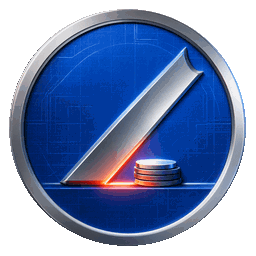
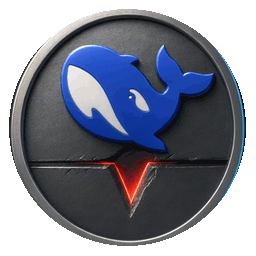
feat(achievements): use the approved DeepSeek whale for kill line
- Replace kill-line art with the owner-chosen concept: the intact DeepSeek
  whale above a V-shaped blade gouge. Archive kill-line-v2-source.png and bump
  the catalog and title references to v4.
- Keep sprinter, wishing-well and dragon-heir unchanged: the owner rejected
  the subject-shrink samples, closing the P0 composition item.
- Record the verdict in the ledgers.

diff --git a/dashboard/src/ui/achievements/badge-catalog.js b/dashboard/src/ui/achievements/badge-catalog.js
@@ -141,7 +141,7 @@ export const BADGE_CATALOG = [
   { id: "stepfun_voyager", scope: "local", icon: Milestone, format: "tokens", art: "/achievements/stepfun-voyager.png?v=4" },
   // Wave-6 badges (2026-10-25)
   { id: "dragon_heir", scope: "local", icon: Crown, format: "count", art: "/achievements/dragon-heir.png?v=3" },
-  { id: "kill_line", scope: "local", icon: Sword, format: "percent", art: "/achievements/kill-line.png?v=3" },
+  { id: "kill_line", scope: "local", icon: Sword, format: "percent", art: "/achievements/kill-line.png?v=4" },
 ];
 
 export const BADGE_BY_ID = new Map(BADGE_CATALOG.map((b) => [b.id, b]));

diff --git a/dashboard/src/ui/achievements/title-registry.js b/dashboard/src/ui/achievements/title-registry.js
@@ -398,7 +398,7 @@ const TITLES_UNSORTED = [
     art: "/achievements/titles/title-chinese-can-fly.png?v=1",
     requiredBadges: [
       { id: "dragon_heir", name: "龙的传人", tier: 3, art: "/achievements/dragon-heir.png?v=3" },
-      { id: "kill_line", name: "斩杀线", tier: 1, art: "/achievements/kill-line.png?v=3" },
+      { id: "kill_line", name: "斩杀线", tier: 1, art: "/achievements/kill-line.png?v=4" },
       { id: "flash_immortal", name: "Flash 仙人", tier: 2, art: "/achievements/flash-immortal.png?v=9" },
     ],
     check: (badgeMap) =>

diff --git a/dashboard/public/achievements/README.md b/dashboard/public/achievements/README.md
@@ -74,7 +74,7 @@ efactor-titan. Source originals are stored in scripts/art/source-badges/ and com
 - **Remodeled 3D Relief Coins (3 coins)**: deep-thinker, claude-survivor, wishing-well were remodeled from flat 2D silhouettes into authentic 3D sculpted metallic relief coins (scripts/art/source-badges/deep-thinker.jpg, claude-survivor.jpg, wishing-well.jpg) via scripts/art/rebuild-badge-rims.py.
 - **Wave 4 Coins (9 coins)**: zhipu-sage, moonshot-voyager, minimax-abyss, north-america-doubao, hyperspeed-grok, qwen-dynasty, flash-immortal, seedance-master, token-arbitrageur. Compiled via scripts/art/build-wave4-assets.py.
 - **Wave 5 Coins (4 coins)**: meituan-longcat, jd-joy-brother, hunyuan-master, stepfun-voyager. Compiled via scripts/art/mint-wave4-batch2.py.
-- **Wave 6 Coins (2 new + 2 custom)**: dragon-heir, kill-line (new); sprinter and wishing-well keep the owner-approved custom faces. Their coin edge now matches the standard disc; subject fit inside the coin face is still being adjusted.
+- **Wave 6 Coins (2 new + 2 custom)**: dragon-heir, kill-line (new); sprinter and wishing-well keep the owner-approved custom faces. Kill-line now uses the owner's chosen intact DeepSeek whale above a V-shaped blade gouge (`kill-line-v2-source.png`, art v4). Coin edges match the standard disc; the owner reviewed subject-shrink samples for sprinter, wishing-well and dragon-heir, rejected them, and kept the current faces.
 - **Synergy Title Crests (16 crests)**: dashboard/public/achievements/titles/title-*.png (for the 16 geek title resonances). Source originals are stored in scripts/art/source-titles/ and compiled with strict binary alpha.
 
 Rebuild scripts & assets:
